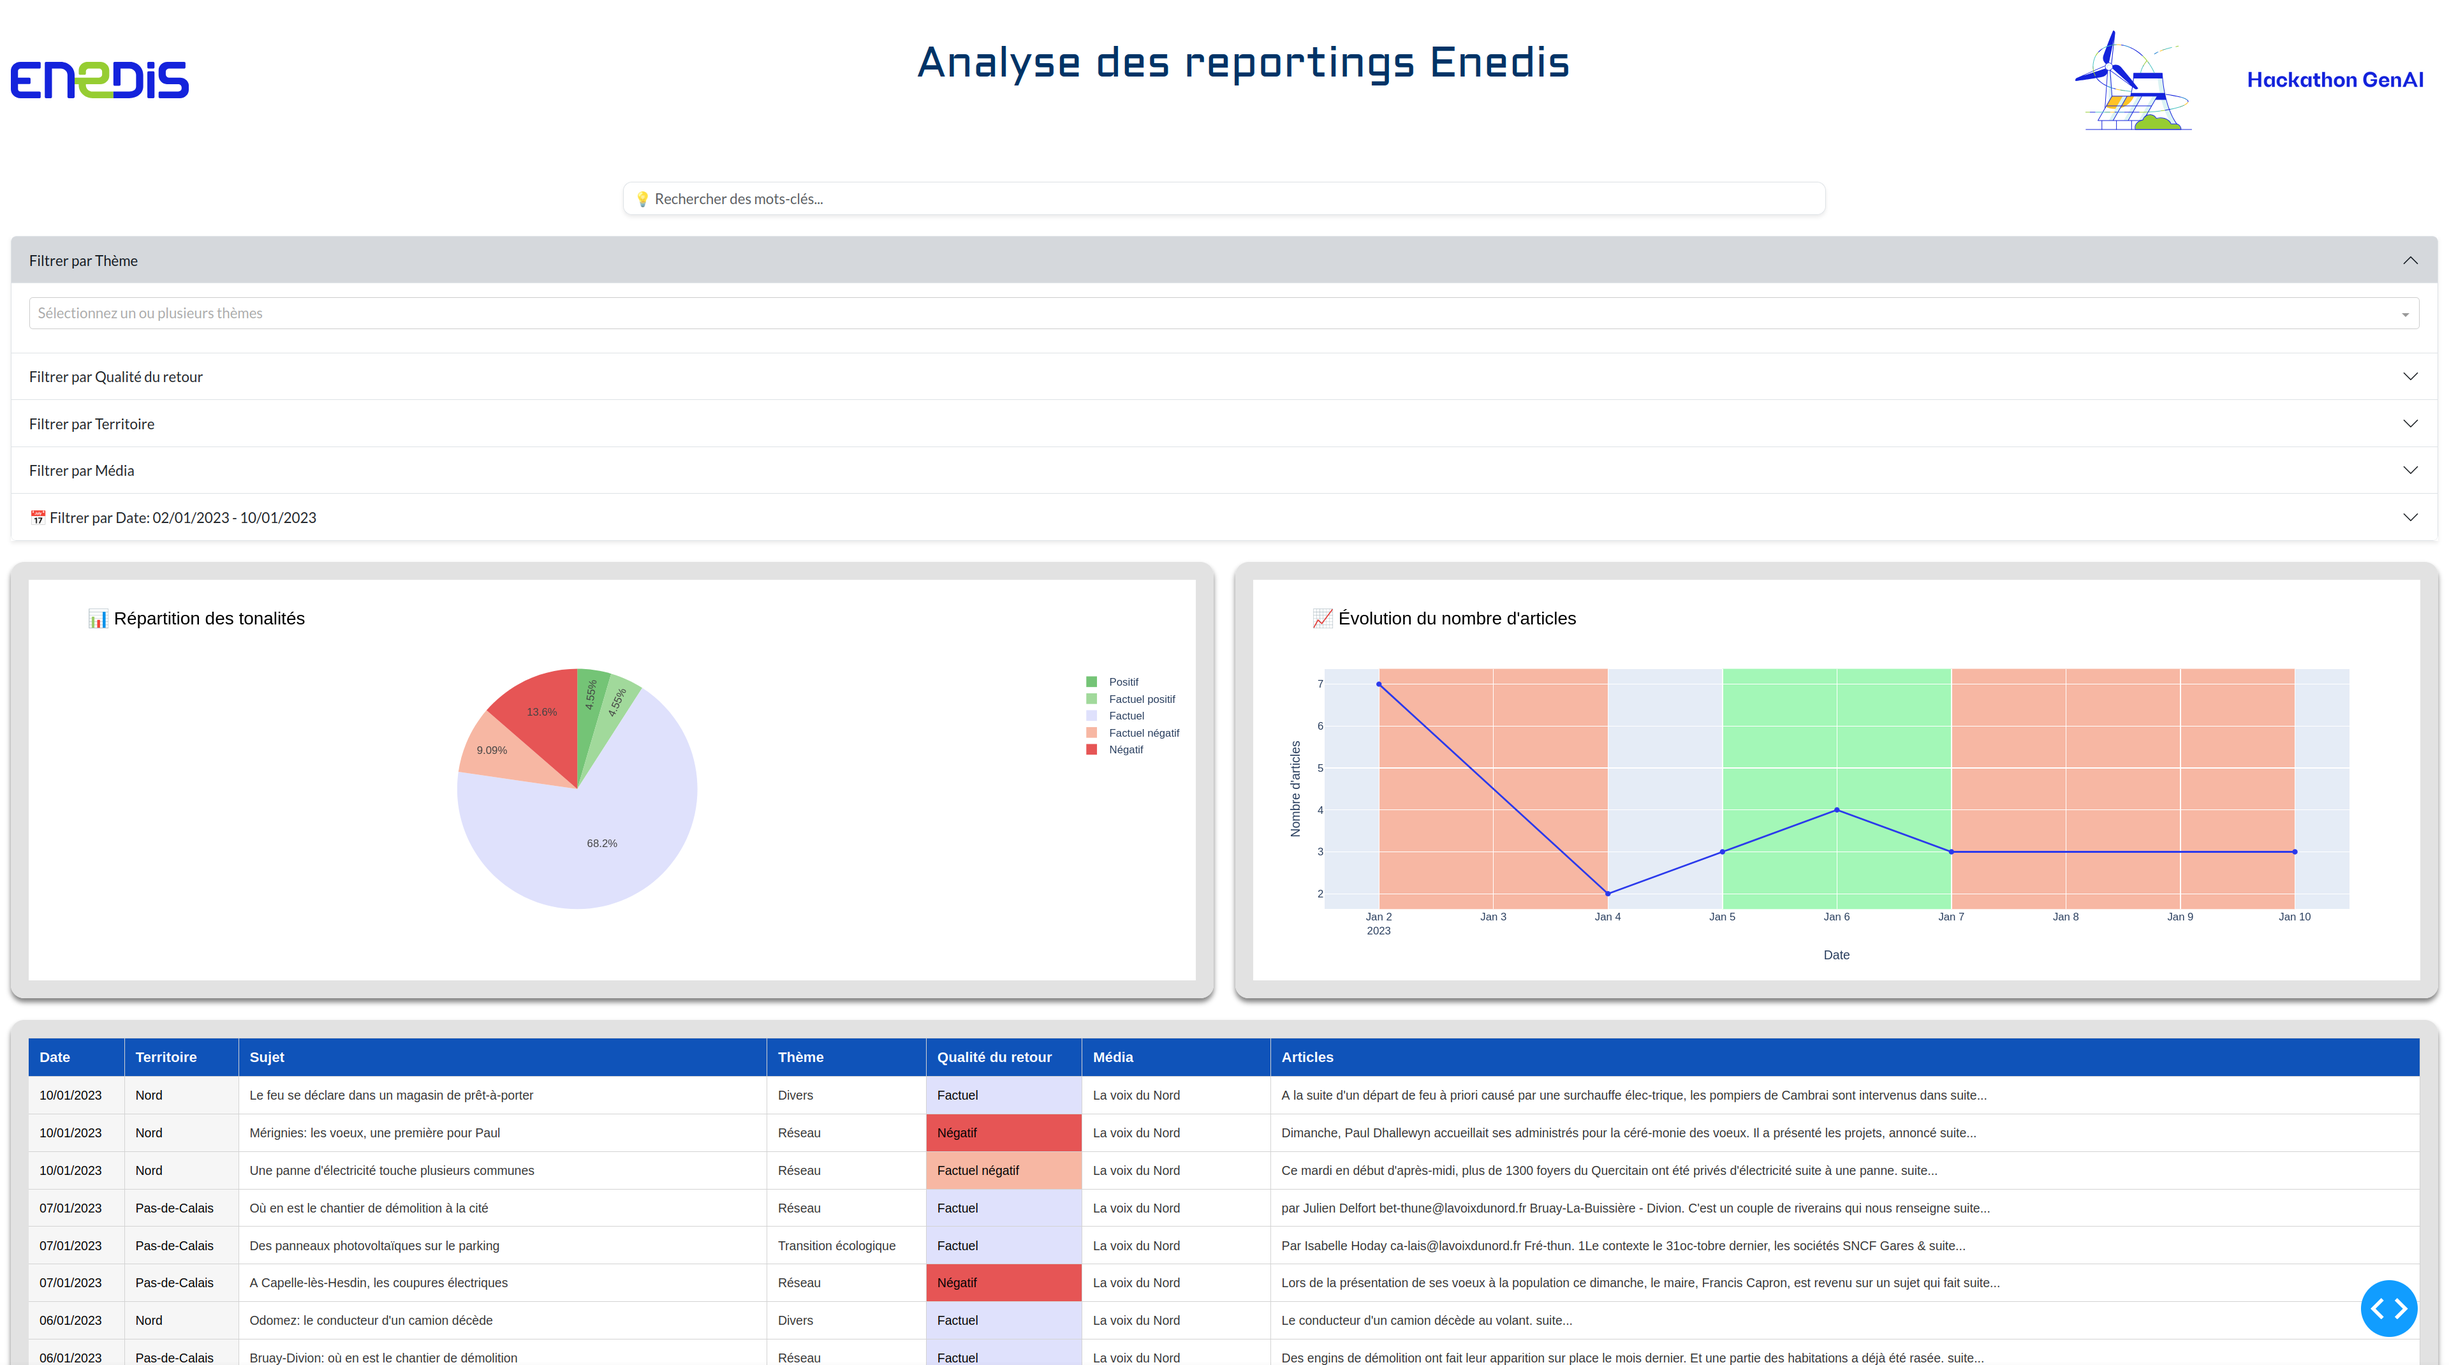
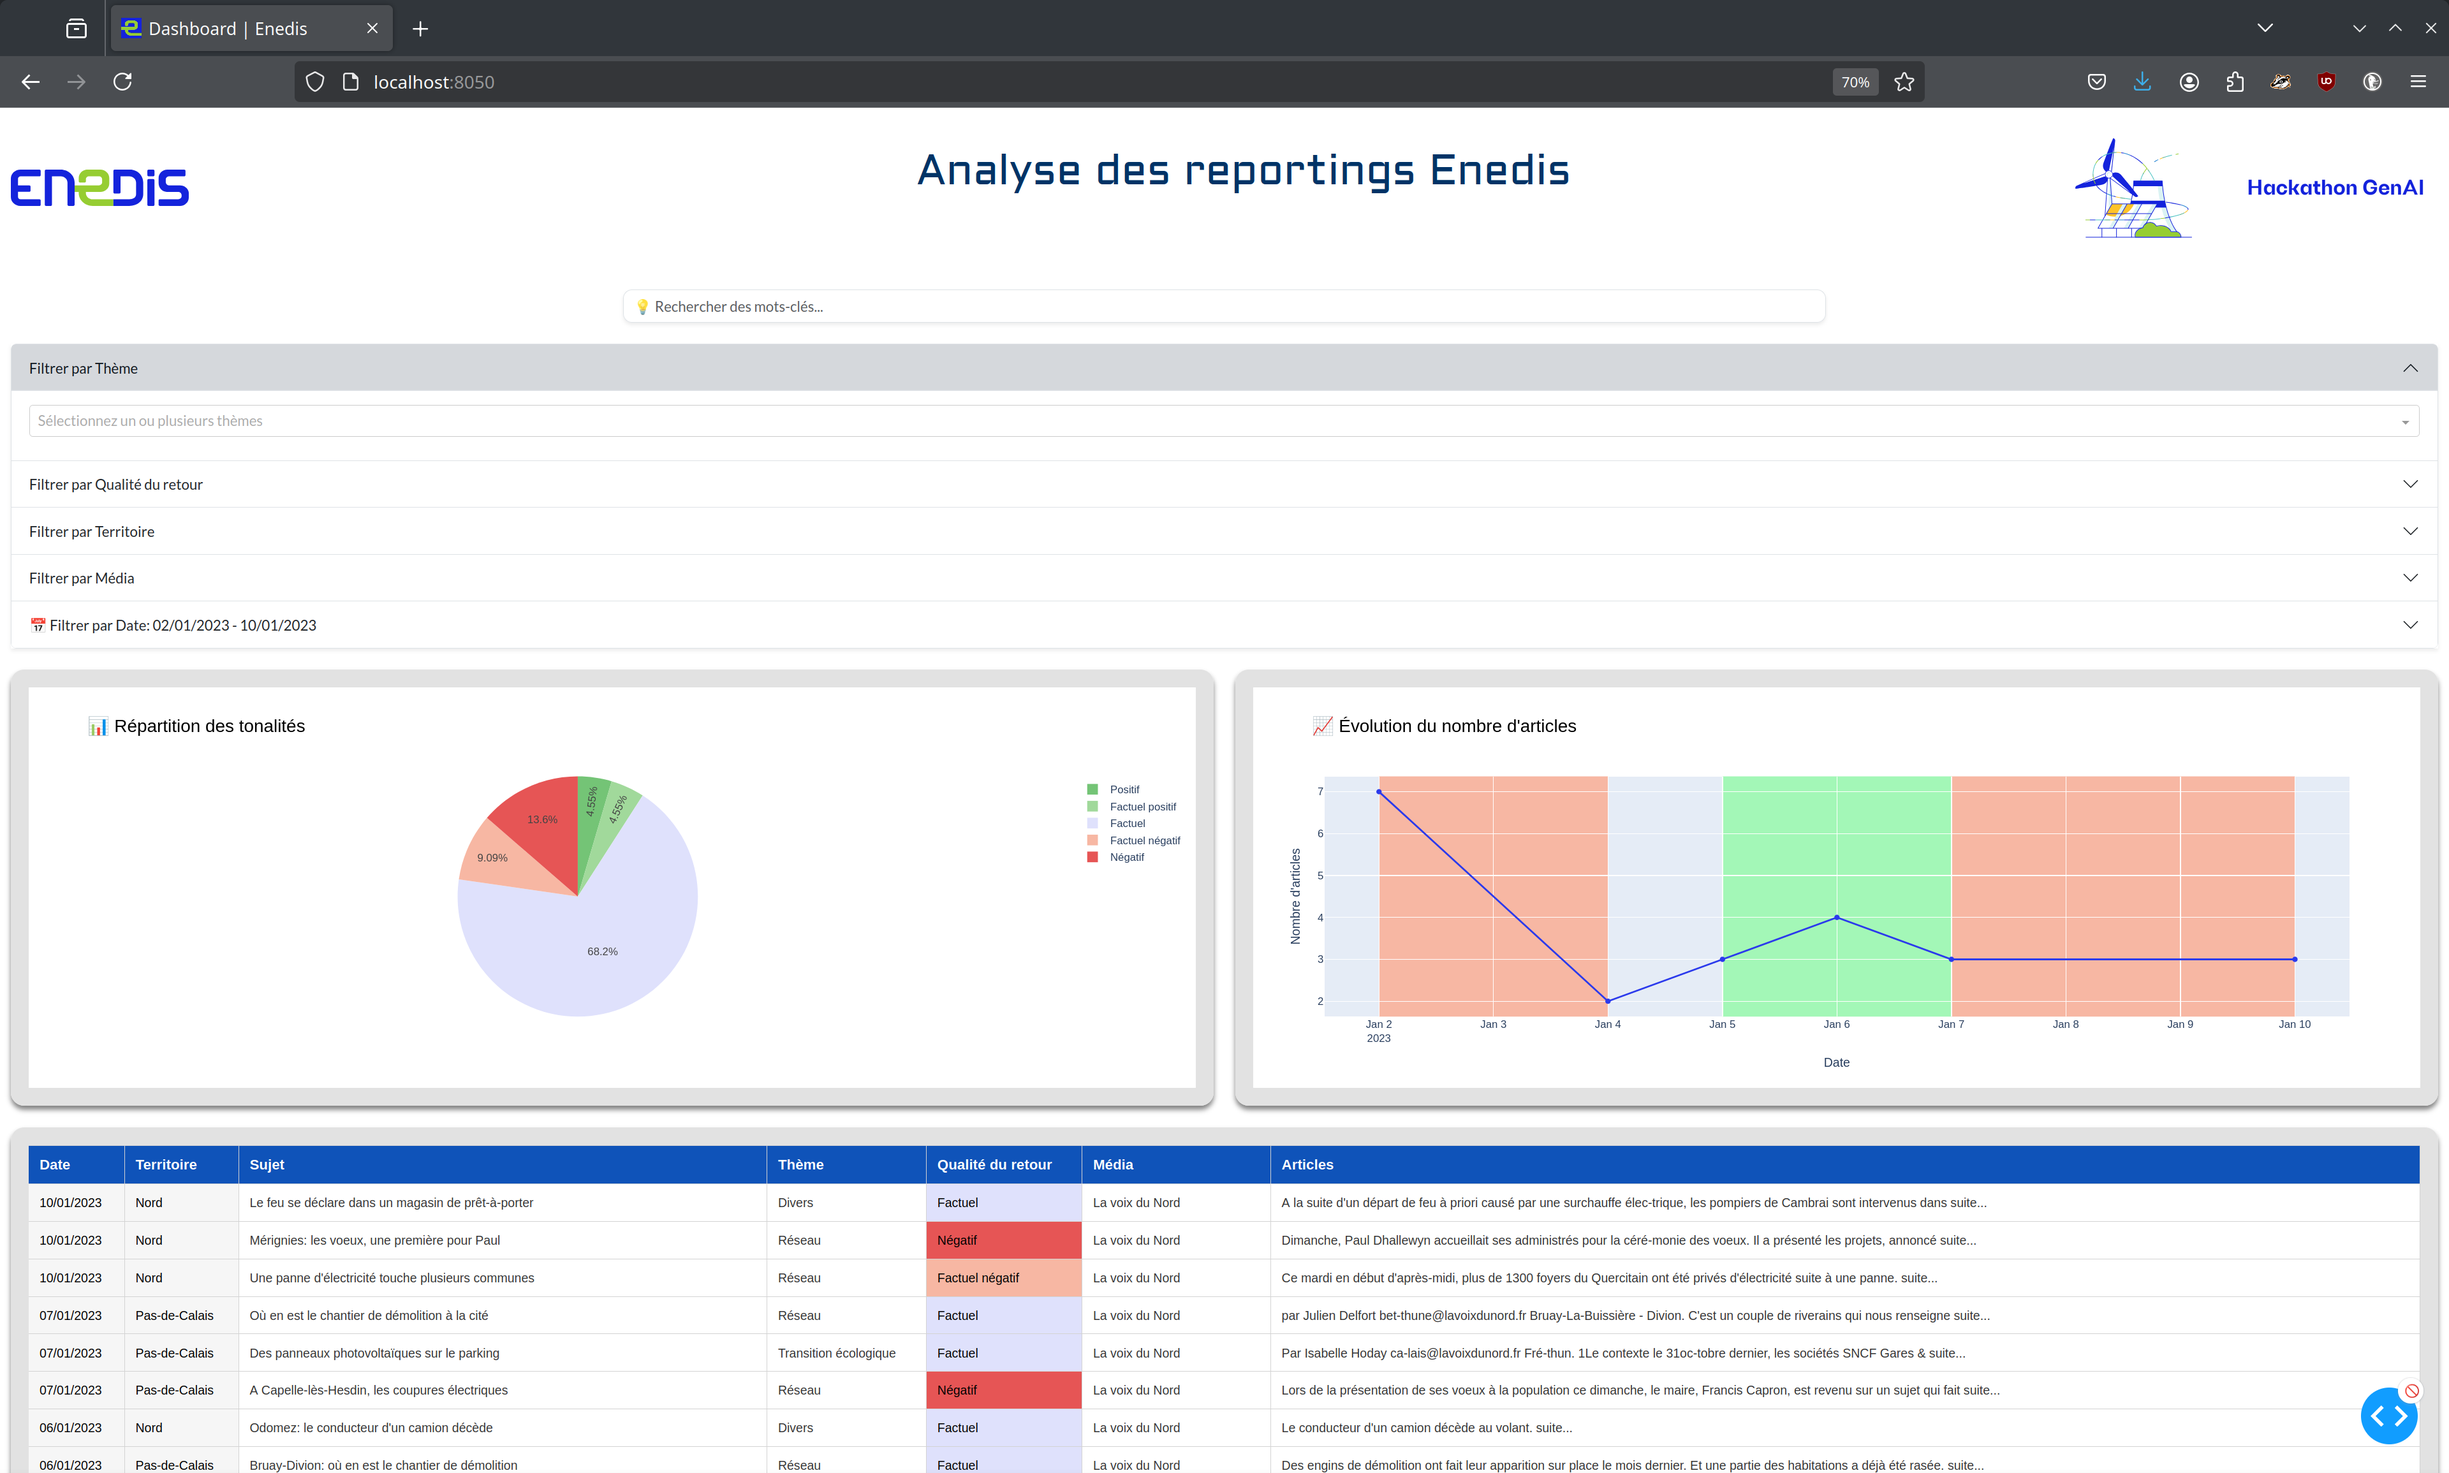
optimize time-series background

diff --git a/data-viz-app/utils/dash_display.py b/data-viz-app/utils/dash_display.py
@@ -87,25 +87,39 @@ def create_rectangle_shape(start, end, color):
     }
     return shape
 
-def get_shapes_critical_periods(df, window='3D', threshold=0.5):
+def get_timeseries_background_shapes(df, window='3D', threshold=0.1):
     df['Date'] = pd.to_datetime(df['Date'])
     df = df.set_index('Date').sort_index()
     
     values_categories = {
-        'red': ['Négatif', 'Factuel négatif'],
-        'green': ['Positif', 'Factuel positif']
+        'red': {
+            'values': ['Négatif', 'Factuel négatif'],
+            'color': '#f7b7a3'
+        },
+        'green': {
+            'values': ['Positif', 'Factuel positif'],
+            'color': '#a3f7b7'
+        }
     }
-    colors = {'red': '#f7b7a3', 'green': '#a3f7b7', 'blue': '#a3c7f7'}
 
     shapes = []
-    for color, values in values_categories.items():
+    
+    # iterate (red/green)
+    for color_dict in values_categories.values():
+        values = color_dict['values']
+        color = color_dict['color']
+
         values_per_line = df['Qualité du retour'].isin(values)
         values_ratio_per_date = values_per_line.groupby('Date').mean()
+
+        # rolling mean over the specified window period
         rolling_window = values_ratio_per_date.rolling(window=window, min_periods=1).mean()
         rolling_window = rolling_window.reset_index()
 
+        # identify periods where rolling mean exceeds threshold
         values_dates = rolling_window[rolling_window['Qualité du retour'] >= threshold].reset_index()
 
+        # catch the period
         if values_dates.shape[0] > 1:
             intervals = []
             for i in range(len(values_dates)-1):
@@ -113,11 +127,8 @@ def get_shapes_critical_periods(df, window='3D', threshold=0.5):
                 next_date = values_dates.iloc[i+1]
                 if next_date['index'] - current_date['index'] == 1:
                     intervals.append((current_date['Date'], next_date['Date']))
-
-            shapes.extend([create_rectangle_shape(start, end, colors[color]) for start, end in intervals])
-    
-    # If no red or green periods, default to blue
-    if not shapes:
-        shapes.append(create_rectangle_shape(df.index.min(), df.index.max(), colors['blue']))
+            
+            # generate colored shapes
+            shapes.extend([create_rectangle_shape(start, end, color) for start, end in intervals])
     
     return shapes

diff --git a/data-viz-app/app.py b/data-viz-app/app.py
@@ -11,7 +11,7 @@ PROJECT_PATH = Path(__file__).parent.absolute()
 sys.path.append(PROJECT_PATH)
 
 from utils.load_and_clean_df import load_data, clean_data
-from utils.dash_display import create_accordion_item, filter_df, summary_filter, get_shapes_critical_periods
+from utils.dash_display import create_accordion_item, filter_df, summary_filter, get_timeseries_background_shapes
 
 import assets.css.styles as myCSS
 
@@ -154,7 +154,7 @@ def update_visualizations(selected_themes, selected_tonalites, selected_territor
         markers=True
     )
     time_series.update_traces(line=myCSS.time_series['line'])
-    critical_shapes = get_shapes_critical_periods(filtered_df, window='3D', threshold=0.1)
+    critical_shapes = get_timeseries_background_shapes(filtered_df)
     time_series.update_layout(title_font=myCSS.time_series['title_font'], shapes=critical_shapes)
 
     # pie chart

diff --git a/data-viz-app/assets/css/styles.py b/data-viz-app/assets/css/styles.py
@@ -35,11 +35,11 @@ pie_chart = {
         'color': 'black',
     },
     'colors': {
-        "Positif": "#74c476",
-        "Factuel positif": "#a1d99b",
-        "Factuel": "#dfe1fc",
-        "Factuel négatif": "#f7b7a3",
-        "Négatif": "#e65555"
+        "Positif": '#74c476',
+        "Factuel positif": '#a1d99b',
+        "Factuel": '#dfe1fc',
+        "Factuel négatif": '#f7b7a3',
+        "Négatif": '#e65555'
     }
 }
 pie_chart_colors_keys = list(pie_chart['colors'].keys())
